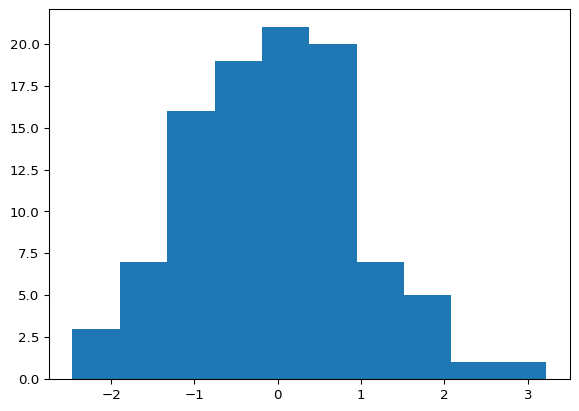
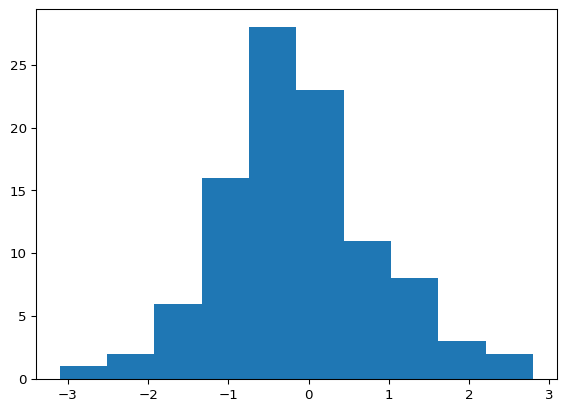
Built site for gh-pages

diff --git a/units/unit1.html b/units/unit1.html
@@ -193,7 +193,7 @@ $$
 <p>This is an example of using qmd as the source document.</p>
 <section id="evaluated-python-code-chunk-with-a-plot" class="level2">
 <h2 class="anchored" data-anchor-id="evaluated-python-code-chunk-with-a-plot">Evaluated Python code chunk, with a plot</h2>
-<div id="26bdf928" class="cell" data-execution_count="1">
+<div id="5f31369e" class="cell" data-execution_count="1">
 <details open="" class="code-fold">
 <summary>Code</summary>
 <div class="sourceCode cell-code" id="cb1"><pre class="sourceCode python code-with-copy"><code class="sourceCode python"><span id="cb1-1"><a href="#cb1-1" aria-hidden="true" tabindex="-1"></a><span class="im">import</span> numpy <span class="im">as</span> np</span>
@@ -211,7 +211,7 @@ $$
 </div>
 </div>
 <div class="cell-output cell-output-display" data-execution_count="1">
-<pre><code>np.float64(0.005001938263625025)</code></pre>
+<pre><code>np.float64(-0.03319358908287454)</code></pre>
 </div>
 </div>
 </section>
@@ -273,7 +273,7 @@ Tip with Title
 </div>
 <div id="tabset-1-2" class="tab-pane" role="tabpanel" aria-labelledby="tabset-1-2-tab">
 <p>This code is executed.</p>
-<div id="4f637128" class="cell" data-execution_count="2">
+<div id="86ee91cb" class="cell" data-execution_count="2">
 <details open="" class="code-fold">
 <summary>Code</summary>
 <div class="sourceCode cell-code" id="cb4"><pre class="sourceCode python code-with-copy"><code class="sourceCode python"><span id="cb4-1"><a href="#cb4-1" aria-hidden="true" tabindex="-1"></a><span class="kw">def</span> fizz_buzz(num):</span>

diff --git a/berkeley-coursework.html b/berkeley-coursework.html
@@ -267,7 +267,7 @@ This practically-oriented class will provide students with tools to make good fo
 <li><p><strong>MATH 110: Abstract Linear Algebra</strong><br>
 Matrices, vector spaces, linear transformations, inner products, determinants. Eigenvectors. QR factorization. Quadratic forms and Rayleigh’s principle. Jordan canonical form, applications. Linear functionals.</p></li>
 <li><p><strong>MATH 128A: Numerical Analysis</strong><br>
-Programming for numerical calculations, round-off error, approximation and interpolation, numerical quadrature, and solution of ordinary differential equations. This courses used MATLAB as its primary programming language.</p></li>
+Programming for numerical calculations, round-off error, approximation and interpolation, numerical quadrature, and solution of ordinary differential equations. This course uses MATLAB as its primary programming language.</p></li>
 <li><p><strong>MATH 113: Abstract Algebra</strong><br>
 Sets and relations. The integers, congruences, and the Fundamental Theorem of Arithmetic. Groups and their factor groups. Commutative rings, ideals, and quotient fields. The theory of polynomials: Euclidean algorithm and unique factorizations. The Fundamental Theorem of Algebra. Fields and field extensions.</p></li>
 <li><p><strong>MATH 104: Real Analysis</strong><br>

diff --git a/units/unit3.html b/units/unit3.html
@@ -190,7 +190,7 @@ $$
 <p>This is an example of using qmd as the source document with pdf as one target. I’ve taken out the qmd stuff that doesn’t seem to render to pdf.</p>
 <section id="evaluated-python-code-chunk-with-a-plot" class="level2">
 <h2 class="anchored" data-anchor-id="evaluated-python-code-chunk-with-a-plot">Evaluated Python code chunk, with a plot</h2>
-<div id="3e154511" class="cell" data-execution_count="1">
+<div id="81d92937" class="cell" data-execution_count="1">
 <details open="" class="code-fold">
 <summary>Code</summary>
 <div class="sourceCode cell-code" id="cb1"><pre class="sourceCode python code-with-copy"><code class="sourceCode python"><span id="cb1-1"><a href="#cb1-1" aria-hidden="true" tabindex="-1"></a><span class="im">import</span> numpy <span class="im">as</span> np</span>
@@ -208,7 +208,7 @@ $$
 </div>
 </div>
 <div class="cell-output cell-output-display" data-execution_count="1">
-<pre><code>np.float64(-0.07965292743233053)</code></pre>
+<pre><code>np.float64(-0.08537630923132947)</code></pre>
 </div>
 </div>
 </section>
